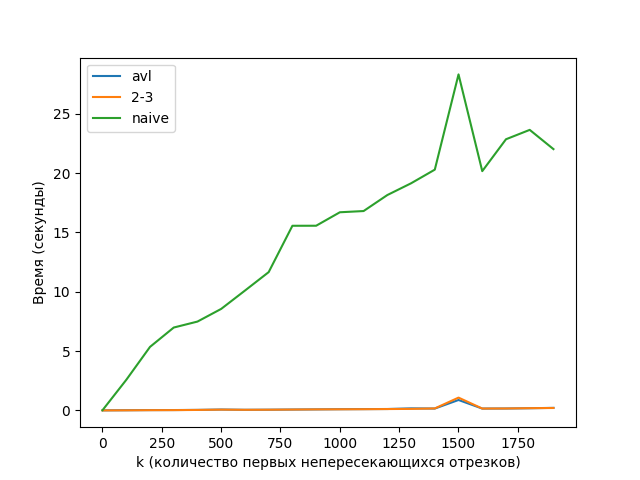
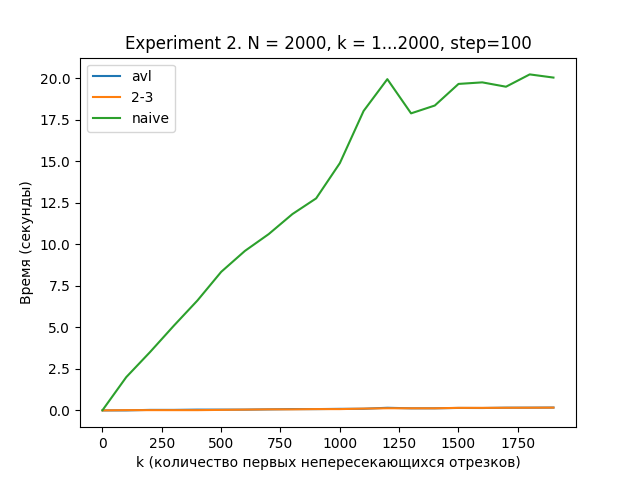
images_fix

diff --git a/src/test.py b/src/test.py
@@ -134,6 +134,8 @@ def test():
     naive_time = []
     n = []
 
+    length = []
+
     if args.experiment == 1:
 
         N = 10001
@@ -169,14 +171,14 @@ def test():
             end = time.time() - start
             naive_time.append(end)
 
-            n.append(number)
-
+            n.append(number)    
         plt.plot(n, avl_time, label='avl')
         plt.plot(n, b_2_3_time, label='2-3')
         plt.plot(n, naive_time, label='naive')
         plt.legend(loc='best')
         plt.xlabel("N (количество отрезков)")
         plt.ylabel("Время (секунды)")
+        plt.title("Experiment 1. N = 1...10001, step = 100")
         plt.show()     
   
     elif args.experiment == 2:
@@ -222,6 +224,7 @@ def test():
         plt.legend(loc='best')
         plt.xlabel("k (количество первых непересекающихся отрезков)")
         plt.ylabel("Время (секунды)")
+        plt.title("Experiment 2. N = 2000, k = 1...2000, step=100")
         plt.show()
 
     elif args.experiment == 3:
@@ -265,8 +268,9 @@ def test():
         plt.plot(n, b_2_3_time, label='2-3')
         plt.plot(n, naive_time, label='naive')
         plt.legend(loc='best')
-        plt.xlabel("k (количество первых непересекающихся отрезков)")
+        plt.xlabel("N (количество отрезков)")
         plt.ylabel("Время (секунды)")
+        plt.title("Experiment 3. N = 1...1000, step = 100, r = 0.0001")        
         plt.show()
 
     elif args.experiment == 4:
@@ -274,10 +278,10 @@ def test():
         N = 1000
         r = 0
 
-        for i in range(1, 10):
+        for i in range(1, 30):
 
-            r += 0.01
-            number = i
+            r += 0.001
+            length.append(r)
             data = experiment4(N, r)
 
             Lines = []
@@ -305,14 +309,13 @@ def test():
             end = time.time() - start
             naive_time.append(end)
 
-            n.append(number)
-
-        plt.plot(n, avl_time, label='avl')
-        plt.plot(n, b_2_3_time, label='2-3')
-        plt.plot(n, naive_time, label='naive')
+        plt.plot(length, avl_time, label='avl')
+        plt.plot(length, b_2_3_time, label='2-3')
+        plt.plot(length, naive_time, label='naive')
         plt.legend(loc='best')
-        plt.xlabel("k (количество первых непересекающихся отрезков)")
+        plt.xlabel("r (длина отрезка)")
         plt.ylabel("Время (секунды)")
+        plt.title("Experiment 4. N = 1000, r = 0.001...0.03, step = 0.001")          
         plt.show()        
 
 if __name__ == "__main__":

diff --git a/src/main.py b/src/main.py
@@ -10,7 +10,7 @@ def main():
     parser.add_argument('--path', type=str, default='', metavar='P',
                         help='path to input file')
     parser.add_argument('--mode', type=int, default=1, metavar='M',
-                        help='mode: 1 for AVL tree usage, 0 for 2-3 tree usage (default: 1)')
+                        help='mode: 1 for AVL tree usage, 0 for 2-3 tree usage, 2 for naive method (default: 1)')
 
     args = parser.parse_args()
 
@@ -21,11 +21,9 @@ def main():
         data = f.readlines()
         for line in data:
             tmp_arr = line.split()
-            plot_data.append((tmp_arr[0], tmp_arr[2]))
-            plot_data.append((tmp_arr[1], tmp_arr[3]))
+            plot_data.append((float(tmp_arr[0]), float(tmp_arr[2])))
+            plot_data.append((float(tmp_arr[1]), float(tmp_arr[3])))
             Lines.append(Line(float(tmp_arr[0]), float(tmp_arr[1]), float(tmp_arr[2]), float(tmp_arr[3]), tmp_arr[4]))
-    for line in data: 
-        Lines.append(Line(line[0], line[1], line[2], line[3], line[4]))
     
     E = []
 
@@ -35,10 +33,17 @@ def main():
         E.append(end)
 
     start = time.time() 
-    print(sweep_line(E, args.mode))
+    print(sweep_line(E, args.mode, Lines))
     end = time.time() - start
 
     print(f'Время выполнения: {end}')
 
+    j = 1
+    for i in range(0, len(plot_data), 2):
+        plt.plot([plot_data[i][0], plot_data[i][1]], [plot_data[i + 1][0], plot_data[i + 1][1]], label=j, marker='o')
+        j += 1
+
+    plt.legend(loc='best')
+    plt.show()
 if __name__ == "__main__":
     main()
